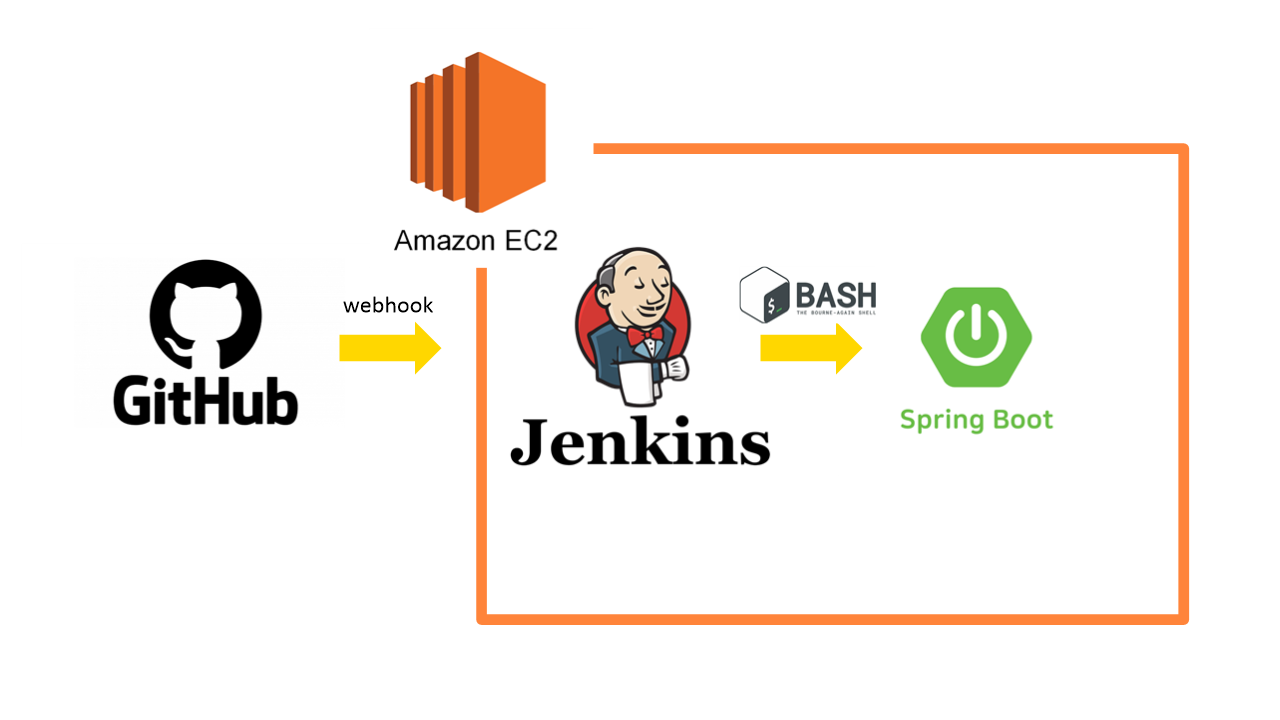
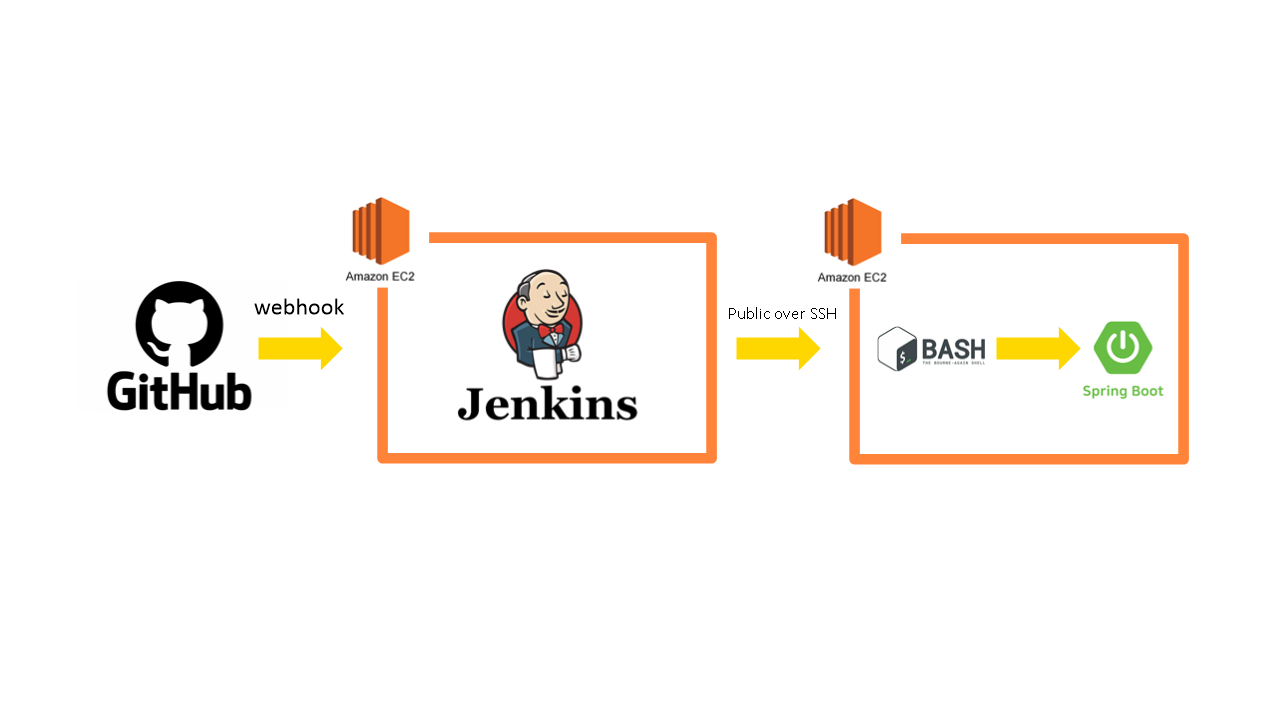
임시 저장

Changed region(s): [[0.0625, 0.0611, 0.9375, 0.8861]]

diff --git a/Data/Document/Jenkins [SpringBooot].md b/Data/Document/Jenkins [SpringBooot].md
@@ -2,6 +2,226 @@
 
 # Jenkins [SpringBoot]
 
+Jenkins서버와 Github을 연동해 자동으로 빌드를 진행하고,
+WAS서버에 빌드 파일을 전달해 서버 배포 <br>
+
 ## 구성도
 
 ![img](../Img/jenkins%20%5Bspringboot%5D.png)
+
+## 사전 세팅
+
+1. AWS EC2 Ubuntu 생성 및 환경 설정 [AWS EC2 생성](../Document/EC2.md)
+2. Springboot 프로젝트 생성 [SpringBoot 프로젝트 생성](../Document/Local%20%5BSpringBoot%5D.md)
+3. SpringBoot 프로젝트 Github에 저장
+4. Jenkins 설치 완료 [Jenkins 설치](../Document/Jenkins.md)
+
+## 환경
+
+1. Jenkins 서버용 EC2
+2. WAS 서버용 EC2
+   [Java SE-17](https://www.oracle.com/java/technologies/javase/jdk17-archive-downloads.html)<br>
+3. VSCode<br>
+   (1) Spring Boot Extension Pack<br>
+   (2) Extension Pack for Java<br>
+   (3) Gradle for Java<br>
+
+## 시작
+
+### Jenkins 서버와 Github 연동
+
+Webhook은 특정 이벤트가 발생할때 특정 서비스에게 알림을 보내는 기능이다.<br>
+Webhook을 활용해 Github 저장소의 업데이트가 발생하면
+Jenkins가 반응하여 처리를 하도록 구현한다.<br>
+하지만, github 저장소에 접근하기 위해서는 credentail 등록이 필요하며 서버에서<br>깃허브 아이디, 비밀번호를 인증하는 방식은 위험하므로 저장소에 SSH키를 생성하여 Github에 등록해 연동시킨다.<br>
+
+### (1) 키파일 생성<br>
+
+![img](../Img/jenkinsprj1.png)<br>
+(jenkins가 실행중인지 확인)<br>
+
+![img](../Img/jenkinsprj2.png)<br>
+(jenkins 계정으로 bash shell 접속)
+
+![img](../Img/jenkinsprj3.png)<br>
+![img](../Img/jenkinsprj4.png)<br>
+(/var/lib/jenkins 경로에 .ssh폴더 생성 및 이동)
+
+![img](../Img/jenkinsprj5.png)<br>
+ssh-keygen -t rsa -f /var/lib/jenkins/.ssh/github_ansible-in-action<br>
+(해당 명령어로 ssh키 생성 및 비밀번호는 모두 엔터,
+설치가 되었는지 확인
+)<br><br>
+
+### (2) Github에 public 키 등록<br>
+
+![img](../Img/jenkinsprj8.png)<br>
+( "cat 생성된 키.pub" 를 입력해서 키 값을 복사)<br>
+
+![img](../Img/jenkinsprj6.png)<br>
+(연동할 프로젝트의 Settings로 이동)<br>
+
+![img](../Img/jenkinsprj7.png)<br>
+(Deploy keys -> Add deploy key 클릭)<br>
+
+![img](../Img/jenkinsprj9.png)<br>
+(복사한 키값을 붙여놓고 Add key 클릭)<br>
+
+### (3) jenkins에 private 키 등록<br>
+
+![img](../Img/jenkinsprj12.png)<br>
+("cat 생성된 키" 를 입력해서 키 값을 복사)<br>
+
+![img](../Img/jenkinsprj10.png)<br>
+(젠킨스 웹으로 이동해 Jenkins관리 -> Credentials로 이동)<br>
+
+![img](../Img/jenkinsprj11.png)<br>
+(global 클릭 -> Add credentials 클릭)<br>
+
+![img](../Img/jenkinsprj13.png)<br>
+Kind는 "SSH username with private key"로 설정<br>
+Scope는 Global<br>
+ID는 본인이 생성한 키 이름으로 설정<br>
+Username은 원하는 이름으로 설정<br>
+Private Key에서 Enter directly를 클릭하고 오른쪽의 Enter을 클릭한뒤 빈칸에 복사한 키값을 붙여넣기<br>
+
+![img](../Img/jenkinsprj14.png)<br>
+(생성 완료)<br>
+
+### (4) jenkins Item 생성<br>
+
+![img](../Img/jenkinsprj15.png)<br>
+(새로운 Item 클릭)<br>
+
+![img](../Img/jenkinsprj16.png)<br>
+(이름은 원하는 대로 작성, Freestyle project 선택한뒤 ok 클릭)<br>
+
+![img](../Img/jenkinsprj18.png)<br>
+소스 코드 관리 -> Git을 클릭<br>
+Repository URL : 본인 프로젝트 HTTPS URL<br>
+Credentials : 방금 생성한 키<br>
+\*/master -> \*/main 으로 변경<br>
+그리고 저장<br>
+
+### (5) 빌드 테스트<br>
+
+![img](../Img/jenkinsprj19.png)<br>
+(실행 버튼을 클릭한뒤 F5로 새로고침하여 정상적으로 빌드가 되었는지 확인)<br>
+
+### Github & Jenkins webhook 설정
+
+### (1) Github webhook 설정
+
+![img](../Img/jenkinsprj20.png)<br>
+(Settings -> Webhooks -> Add webhook 클릭)<br>
+
+![img](../Img/jenkinsprj21.png)<br>
+(Payload URL은 Webhook이 발생할대 데이터를 전달할 URL을 의미함<br>
+Jenkins서버 IP:8080/github-webhook/ 으로 작성
+)<br>
+(아직 연동이 안되어 불이 안들어와 있을 것임)<br>
+
+### (2) Jenkins webhook 설정
+
+![img](../Img/jenkinsprj23.png)<br>
+(방금 생성한 Item클릭)<br>
+
+![img](../Img/jenkinsprj24.png)<br>
+(구성 클릭)<br>
+
+![img](../Img/jenkinsprj25.png)<br>
+(빌드 유발에서 Github hook trigger 체크하고 저장)<br>
+
+![img](../Img/jenkinsprj26.png)<br>
+(Dashboard에서 Jenkins관리 클릭)<br>
+
+![img](../Img/jenkinsprj27.png)<br>
+(Plugins 클릭)<br>
+
+![img](../Img/jenkinsprj28.png)<br>
+(Available plugins -> github integration 검색 -> 항목 체크 -> Download now and install restart 클릭)<br>
+
+![img](../Img/jenkinsprj29.png)<br>
+(Github 페이지를 새로고침하면 다음과 같이 활성화가 됨<br>
+안되면 삭제하고 다시 생성)<br>
+
+### (3) 테스트
+
+![img](../Img/jenkinsprj30.png)<br>
+(순서대로 수행했을 경우 다음과같이 빌드가 1회만 수행 되었을거임)<br>
+
+![img](../Img/jenkinsprj31.png)<br>
+(프로젝트에서 파일 수정후 Github에 커밋 보내기)<br>
+
+![img](../Img/jenkinsprj32.png)<br>
+(정상적으로 빌드된 것을 확인)<br>
+
+![img](../Img/jenkinsprj33.png)<br>
+(빌드는 되지만 빌드된 파일을 어떻게 할지 정하지 않아서
+Build폴더자체가 생성되지 않음)<br>
+
+### WAS 서버 배포
+
+Jenkins서버에서 빌드한 jar파일을 publish over ssh 플러그인을
+활용하여 WAS 서버에 전달해 배포<br>
+
+![img](../Img/jenkinsprj34.png)<br>
+(플러그인에서 publish over ssh 설치)<br>
+
+![img](../Img/jenkinsprj35.png)<br>
+(설치한뒤 Jenkins 관리 -> System으로 이동)<br>
+
+![img](../Img/jenkinsprj36.png)<br>
+(내려보면 Publish over SSH 항목이 있음<br>
+Key에 WAS 서버인 EC2의 pem키 값을 붙여넣음<br>
+그리고 SSH Servers 추가
+)<br>
+
+![img](../Img/jenkinsprj37.png)<br>
+Name은 원하는대로 작성<br>
+Hostname : WAS 서버 IP<br>
+username : WAS 서버에서 사용되는 계정<br>
+(EC2 Ubuntu는 기본적으로 계정이름이 ubuntu)<br>
+Remote Directory : WAS서버에 접속하면 수행할 폴더 장소<br>
+
+마지막으로 Test Configuration을 클릭해 "Success"가 나오면 정상적으로 연결이 된것임<br>
+
+저장하고 닫기<br>
+
+![img](../Img/jenkinsprj38.png)<br>
+(생성한 Item을 클릭한뒤 구성 클릭)<br>
+
+![img](../Img/jenkinsprj39.png)<br>
+(내려보면 Build Steps 항목이 있음<br>
+Add build step을 눌러 Invoke Gradle script 클릭)<br>
+
+![img](../Img/jenkinsprj40.png)<br>
+(현재 Springboot 프로젝트내에 gradle Wrapper가 있기때문에<br>
+Use Gradle Wrapper를 클릭하고 Tasks에서 clean build 입력)<br>
+
+![img](../Img/jenkinsprj41.png)<br>
+(빌드 후 조치에서 "Send build artifacts over SSH"를 클릭)
+
+![img](../Img/jenkinsprj42.png)<br>
+Souces files : 전송할 파일 (Jenkins workspace 기준으로 작성)<br>
+Remove prefix : 기본적으로 작업공간/빌드된 파일로 구성됨<br>
+작업공간/A/B/test.jar가 있을때 B/test.jar로 배포한다면 A를 입력함<br>
+지금 같은 경우는 build/libs/jenkinsdemo.jar이기에 build/libs를 제거<br>
+Remote directory : 저장할 위치<br>
+SSH 서버 설정 경로를 기준으로 작성해야됨 현재는 /home/ubuntu이기에
+그 장소에 저장하는걸로 명시<br>
+Exec command : 전송한 뒤 실행할 명령어를 작성하는 부분<br>
+publish.sh를 실행한다고 적었으니<br>
+WAS 서버의 해당 경로에 publish.sh가 있어야됨<br>
+
+작성후 저장<br>
+
+### (1) was 서버에 publish.sh 스크립트 작성
+
+![img](../Img/jenkinsprj43.png)<br>
+(publish.sh 스크립트 생성)
+
+![img](../Img/jenkinsprj44.png)<br>
+(다음과 같이 입력후 저장) [shell 작성법](../Document/Github%20%5BSpringBoot%5D.md)
+
+### (2) 빌드 테스트
